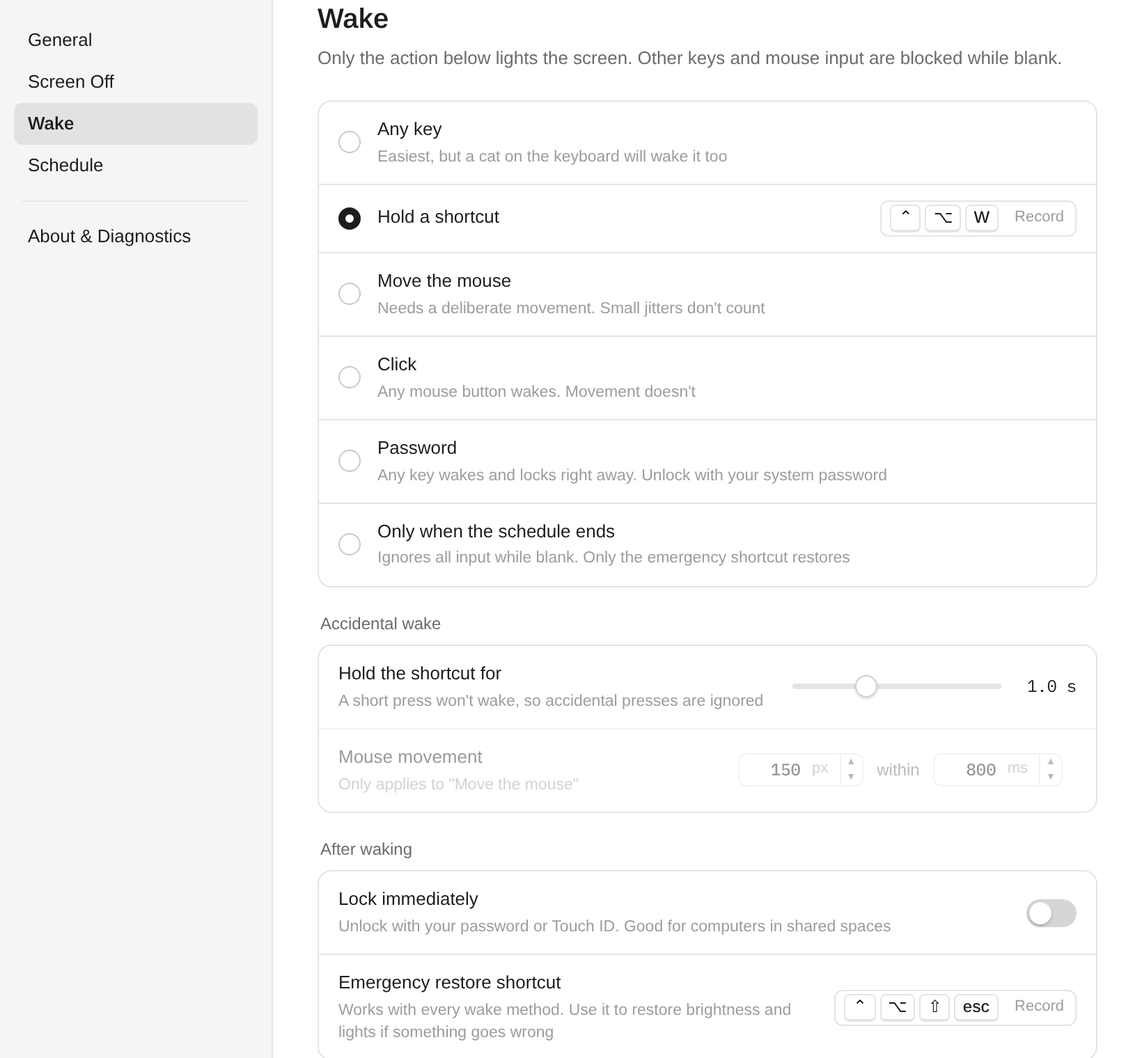
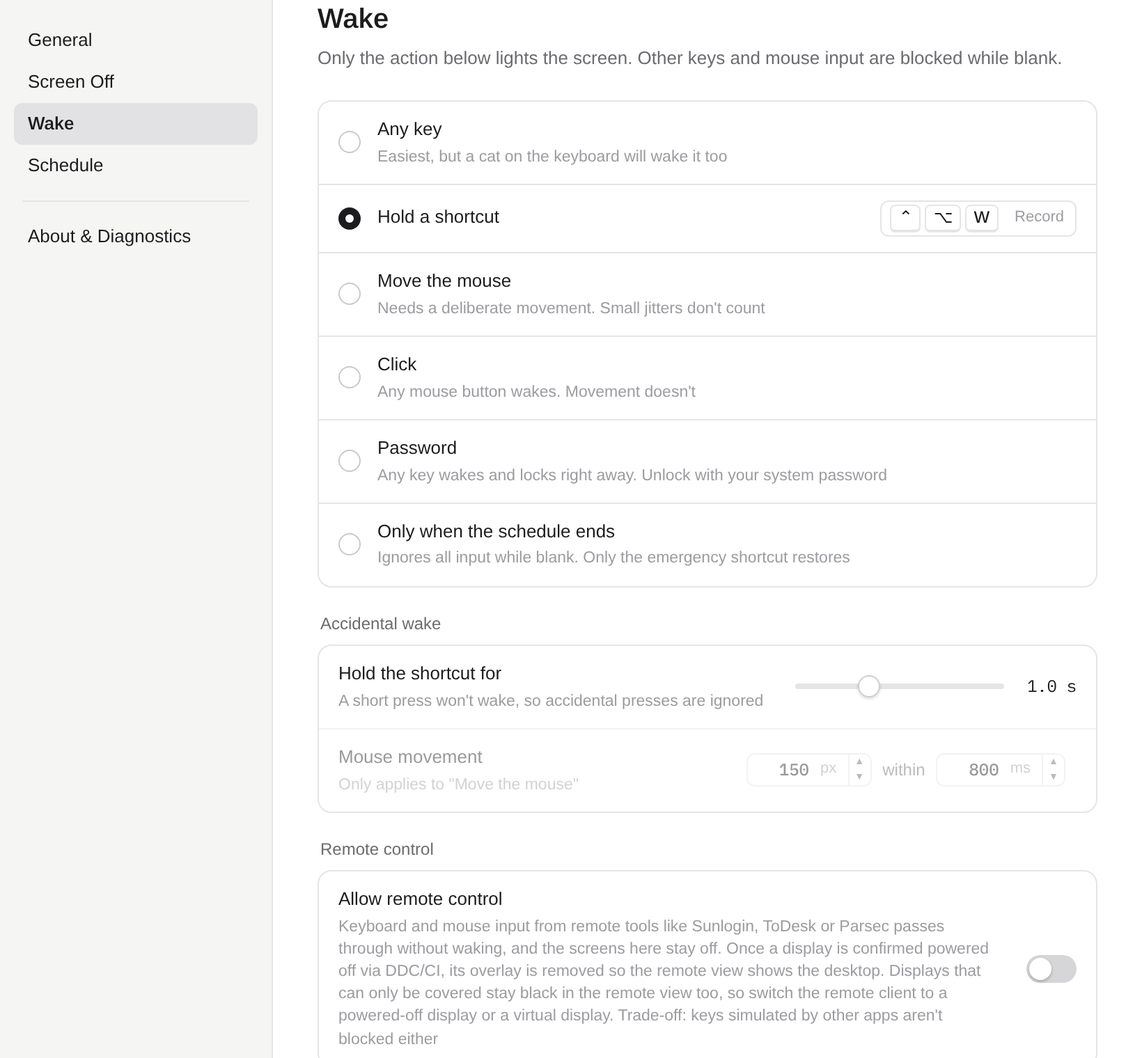
v0.1.5: README (en/zh) and website copy for per-display power-off, remote control, RDP, Mac backlight, wake key drain, updater retry; refreshed screenshots; final release notes

diff --git a/site/index.html b/site/index.html
@@ -25,7 +25,7 @@
 <meta name="twitter:title" content="黑着跑 BlankRun">
 <meta name="twitter:description" content="Turn the screens off at night. Keep your AI agents running. 夜里息屏，AI 接着跑。">
 <meta name="twitter:image" content="https://blankrun.cosfoc.com/og.png">
-<script type="application/ld+json">{"@context":"https://schema.org","@type":"SoftwareApplication","name":"BlankRun","alternateName":"黑着跑","operatingSystem":"macOS 11+, Windows 10+","applicationCategory":"UtilitiesApplication","softwareVersion":"0.1.2","license":"https://opensource.org/licenses/MIT","url":"https://blankrun.cosfoc.com/","downloadUrl":"https://github.com/hongfaqiu/blankrun/releases/latest","offers":{"@type":"Offer","price":"0","priceCurrency":"USD"},"description":"Turn the screens and keyboard backlight off while the computer keeps running. 一键息屏，电脑不睡眠。"}</script>
+<script type="application/ld+json">{"@context":"https://schema.org","@type":"SoftwareApplication","name":"BlankRun","alternateName":"黑着跑","operatingSystem":"macOS 11+, Windows 10+","applicationCategory":"UtilitiesApplication","softwareVersion":"0.1.5","license":"https://opensource.org/licenses/MIT","url":"https://blankrun.cosfoc.com/","downloadUrl":"https://github.com/hongfaqiu/blankrun/releases/latest","offers":{"@type":"Offer","price":"0","priceCurrency":"USD"},"description":"Turn the screens and keyboard backlight off while the computer keeps running. 一键息屏，电脑不睡眠。"}</script>
 <link rel="icon" href="/favicon.svg" type="image/svg+xml">
 <link rel="icon" href="/favicon.png" type="image/png" sizes="32x32">
 <link rel="apple-touch-icon" href="/apple-touch-icon.png">
@@ -53,7 +53,7 @@
     <div class="cta">
       <a class="panel" id="dlMain" href="#download">
         <b><span class="os-mac"><span lang="zh">下载 Mac 版</span><span lang="en">Download for Mac</span></span><span class="os-win"><span lang="zh">下载 Windows 版</span><span lang="en">Download for Windows</span></span><span class="os-any"><span lang="zh">免费下载</span><span lang="en">Download free</span></span></b>
-        <small><span class="os-mac"><span lang="zh">macOS 11+ · Apple 芯片与 Intel · 3.2 MB</span><span lang="en">macOS 11+ · Apple silicon and Intel · 3.2 MB</span></span><span class="os-win"><span lang="zh">Windows 10/11 · 1.2 MB</span><span lang="en">Windows 10/11 · 1.2 MB</span></span><span class="os-any"><span lang="zh">macOS 与 Windows</span><span lang="en">macOS and Windows</span></span></small>
+        <small><span class="os-mac"><span lang="zh">macOS 11+ · Apple 芯片与 Intel · 3.8 MB</span><span lang="en">macOS 11+ · Apple silicon and Intel · 3.8 MB</span></span><span class="os-win"><span lang="zh">Windows 10/11 · 1.4 MB</span><span lang="en">Windows 10/11 · 1.4 MB</span></span><span class="os-any"><span lang="zh">macOS 与 Windows</span><span lang="en">macOS and Windows</span></span></small>
         <i class="led" aria-hidden="true"></i>
       </a>
       <div class="alt">
@@ -68,7 +68,7 @@
   <figure class="hero-shot">
     <picture>
       <source srcset="/img/popover-mac-dark.webp" media="(prefers-color-scheme: dark)">
-      <img src="/img/popover-mac.webp" width="640" height="904" alt="黑着跑菜单栏面板：立即息屏、今晚 23:30 → 07:30 的计划、唤醒方式">
+      <img src="/img/popover-mac.webp" width="640" height="856" alt="黑着跑菜单栏面板：立即息屏、今晚 23:30 → 07:30 的计划、唤醒方式">
     </picture>
   </figure>
 </section>
@@ -78,19 +78,21 @@
   <ol class="timeline">
     <li><span class="t num">23:30</span><div><b><span lang="zh">屏幕和背光熄灭</span><span lang="en">Displays and backlight go dark</span></b><small><span lang="zh">按「立即息屏」，或者交给定时计划。也可以延迟 1、5、15 分钟。</span><span lang="en">Click “Blank now” or let the schedule do it. Delay by 1, 5 or 15 minutes if you like.</span></small></div></li>
     <li class="on"><span class="t num">00:00 – 07:00</span><div><b><span lang="zh">电脑醒着，任务照跑</span><span lang="en">The computer stays awake, jobs keep running</span></b><small><span lang="zh">防睡眠一直生效。屏幕被碰亮了，几秒内会自动再关。</span><span lang="en">Sleep stays blocked the whole time. If something lights the screen, it goes dark again within seconds.</span></small></div></li>
-    <li><span class="t num">07:30</span><div><b><span lang="zh">按你定的方式醒来</span><span lang="en">Wakes the way you chose</span></b><small><span lang="zh">按住 ⌃⌥W 一秒、任意键、移动鼠标，或者等计划结束。醒来后可以锁屏。</span><span lang="en">Hold ⌃⌥W for a second, press any key, move the mouse, or wait for the schedule to end. Optionally lock on wake.</span></small></div></li>
+    <li><span class="t num">07:30</span><div><b><span lang="zh">按你定的方式醒来</span><span lang="en">Wakes the way you chose</span></b><small><span lang="zh">按住 ⌃⌥W 一秒、任意键、移动鼠标，或者等计划结束。醒来后可以锁屏；按住的快捷键不会漏进前台程序。</span><span lang="en">Hold ⌃⌥W for a second, press any key, move the mouse, or wait for the schedule to end. Optionally lock on wake. The held shortcut never leaks into the app in front.</span></small></div></li>
   </ol>
 </section>
 
 <section id="features" class="features">
   <h2><span lang="zh">功能</span><span lang="en">Features</span></h2>
   <dl>
-    <div><dt><span lang="zh">真关屏，不睡眠</span><span lang="en">Real display off, no sleep</span></dt><dd><span lang="zh">macOS 用 IOPMAssertion 阻止睡眠，Windows 用 SetThreadExecutionState；关的是显示器电源，不是盖一层黑图。</span><span lang="en">IOPMAssertion on macOS and SetThreadExecutionState on Windows block sleep. The display is actually powered down, not covered with a black image.</span></dd></div>
+    <div><dt><span lang="zh">真关屏，不睡眠</span><span lang="en">Real display off, no sleep</span></dt><dd><span lang="zh">macOS 用 IOPMAssertion 阻止睡眠，Windows 用 SetThreadExecutionState；关的是显示器电源，不是盖一层黑图。Mac 内建屏的背光会调到 0，唤醒后恢复。</span><span lang="en">IOPMAssertion on macOS and SetThreadExecutionState on Windows block sleep. The display is actually powered down, not covered with a black image. On a Mac, the built-in display's backlight goes to 0 and comes back on wake.</span></dd></div>
+    <div><dt><span lang="zh">逐台断电</span><span lang="en">Per-display power-off</span></dt><dd><span lang="zh">Windows 上支持 DDC/CI 的显示器可以单独断电，其余盖黑色遮罩；每台可选「自动 / 仅遮罩 / 断电」。不响应断电指令的显示器会被自动识别，改用遮罩。远程软件的虚拟显示器不遮、不断电。</span><span lang="en">On Windows, displays with DDC/CI can be powered off one by one; the rest get a black overlay. Each display can be set to Automatic, Overlay only or Power off. Displays that ignore power-off commands are detected and switched to the overlay. Virtual displays from remote tools are left alone.</span></dd></div>
+    <div><dt><span lang="zh">放行远程控制</span><span lang="en">Allow remote control</span></dt><dd><span lang="zh">开启后，向日葵、ToDesk、Parsec 等远程软件的键鼠操作直接放行，不会唤醒本机屏幕；已断电的显示器撤下遮罩，远程画面照常可见。远程桌面（RDP）会话中不息屏。</span><span lang="en">When on, input from Sunlogin, ToDesk, Parsec and similar tools passes through without waking the local screens. Displays that are powered off drop their overlay so the remote view still shows the desktop. BlankRun doesn't blank inside a Remote Desktop (RDP) session.</span></dd></div>
     <div><dt><span lang="zh">防误触唤醒</span><span lang="en">No accidental wake</span></dt><dd><span lang="zh">息屏期间拦截键鼠输入。唤醒方式可选：任意键、按住快捷键、移动鼠标、点击、输入密码、只在定时结束时。另有一个随时可用的紧急恢复键。</span><span lang="en">Input is swallowed while blank. Wake by any key, holding a hotkey, mouse move, click, password, or only when the schedule ends. An emergency restore hotkey always works.</span></dd></div>
     <div><dt><span lang="zh">定时计划</span><span lang="en">Schedule</span></dt><dd><span lang="zh">比如每天 23:30 → 07:30，支持跨午夜，可以只跳过今晚。</span><span lang="en">For example 23:30 → 07:30 daily. Works across midnight, and you can skip just tonight.</span></dd></div>
     <div><dt><span lang="zh">键盘背光</span><span lang="en">Keyboard backlight</span></dt><dd><span lang="zh">macOS 上和屏幕一起关掉。用的是系统私有接口，启动时先探测，不可用就跳过，不影响其他功能。</span><span lang="en">Turned off together with the screen on macOS. It uses a private API that is probed at runtime and skipped when unavailable.</span></dd></div>
     <div><dt><span lang="zh">Windows 待机兜底</span><span lang="en">Modern Standby fallback</span></dt><dd><span lang="zh">有些新款 Windows 笔记本一关屏就进低功耗待机，后台任务会被挂起。检测到这类机器时，改用全黑遮罩。</span><span lang="en">Some Windows laptops drop into Modern Standby when the display turns off, which suspends background jobs. BlankRun detects this and uses a black overlay instead.</span></dd></div>
-    <div><dt><span lang="zh">小，而且只在本地</span><span lang="en">Small and local</span></dt><dd><span lang="zh">基于 Tauri 2，用系统自带 WebView，前端零依赖。安装包只有几 MB。除了每天一次检查更新（可关），不联网、不上传，开源（MIT）。</span><span lang="en">Built on Tauri 2 with the system WebView and a zero-dependency UI. Installers are a few MB. No telemetry; the only network use is a daily update check you can turn off. MIT licensed.</span></dd></div>
+    <div><dt><span lang="zh">小，而且只在本地</span><span lang="en">Small and local</span></dt><dd><span lang="zh">基于 Tauri 2，用系统自带 WebView，前端零依赖。安装包只有几 MB。除了每天一次检查更新（可关），不联网、不上传；更新包有签名校验，下载失败会自动重试。开源（MIT）。</span><span lang="en">Built on Tauri 2 with the system WebView and a zero-dependency UI. Installers are a few MB. No telemetry; the only network use is a daily update check you can turn off. Updates are signed and downloads retry on failure. MIT licensed.</span></dd></div>
   </dl>
 </section>
 
@@ -106,18 +108,18 @@
       <figcaption><span lang="zh">设置 · 唤醒</span><span lang="en">Settings · Wake</span></figcaption>
     </figure>
     <figure>
-      <img src="/img/settings-win-schedule.webp" width="1600" height="1483" loading="lazy" alt="Windows 设置 · 定时">
-      <figcaption><span lang="zh">Windows · 定时</span><span lang="en">Windows · Schedule</span></figcaption>
+      <picture><source srcset="/img/settings-win-displays-dark.webp" media="(prefers-color-scheme: dark)"><img src="/img/settings-win-displays.webp" width="1120" height="1050" loading="lazy" alt="Windows 设置 · 显示器：逐台选择自动、仅遮罩或断电"></picture>
+      <figcaption><span lang="zh">Windows · 逐台显示器</span><span lang="en">Windows · Per-display settings</span></figcaption>
     </figure>
   </div>
 </section>
 
 <section class="download" id="download">
   <h2><span lang="zh">下载</span><span lang="en">Download</span></h2>
-  <p class="sub"><span lang="zh">v0.1.2 · 免费开源（MIT）· <a href="https://github.com/hongfaqiu/blankrun/releases/latest">更新说明</a></span><span lang="en">v0.1.2 · Free and open source (MIT) · <a href="https://github.com/hongfaqiu/blankrun/releases/latest">Release notes</a></span></p>
+  <p class="sub"><span lang="zh">v0.1.5 · 免费开源（MIT）· <a href="https://github.com/hongfaqiu/blankrun/releases/latest">更新说明</a></span><span lang="en">v0.1.5 · Free and open source (MIT) · <a href="https://github.com/hongfaqiu/blankrun/releases/latest">Release notes</a></span></p>
   <ul class="files">
-    <li><a href="https://github.com/hongfaqiu/blankrun/releases/latest/download/BlankRun_universal.dmg"><span lang="zh">macOS 版</span><span lang="en">macOS</span></a><span class="num muted">3.2 MB</span><span class="muted"><span lang="zh">macOS 11+ · Apple 芯片与 Intel</span><span lang="en">macOS 11+ · Apple silicon and Intel</span></span></li>
-    <li><a href="https://github.com/hongfaqiu/blankrun/releases/latest/download/BlankRun_x64-setup.exe"><span lang="zh">Windows 版</span><span lang="en">Windows</span></a><span class="num muted">1.2 MB</span><span class="muted">Windows 10/11 x64</span></li>
+    <li><a href="https://github.com/hongfaqiu/blankrun/releases/latest/download/BlankRun_universal.dmg"><span lang="zh">macOS 版</span><span lang="en">macOS</span></a><span class="num muted">3.8 MB</span><span class="muted"><span lang="zh">macOS 11+ · Apple 芯片与 Intel</span><span lang="en">macOS 11+ · Apple silicon and Intel</span></span></li>
+    <li><a href="https://github.com/hongfaqiu/blankrun/releases/latest/download/BlankRun_x64-setup.exe"><span lang="zh">Windows 版</span><span lang="en">Windows</span></a><span class="num muted">1.4 MB</span><span class="muted">Windows 10/11 x64</span></li>
   </ul>
   <h3><span lang="zh">首次打开</span><span lang="en">First launch</span></h3>
   <dl class="steps">

diff --git a/README.md b/README.md
@@ -1,6 +1,6 @@
 <p align="center"><img src="src-tauri/icons/128x128.png" width="72" alt="BlankRun icon"></p>
 
-<h1 align="center">BlankRun</h1>
+<h1 align="center">BlankRun · 黑着跑</h1>
 
 <p align="center">Turn the screens off at night. Keep your AI agents running.</p>
 
@@ -8,7 +8,7 @@
 
 <p align="center"><a href="https://blankrun.cosfoc.com">Website</a> · <a href="https://github.com/hongfaqiu/blankrun/releases">Download</a> · macOS + Windows · MIT</p>
 
-> **Status: v0.1.2. Blanking, keep-awake, wake and restore have been checked on a MacBook Air M4 (macOS 26.5) and a dual-monitor Windows 11 desktop. The installers are unsigned.** [Download the latest version](https://github.com/hongfaqiu/blankrun/releases/latest)
+> **Latest version: v0.1.5** · macOS 11+ (Apple silicon and Intel) · Windows 10/11 x64 · [Download](https://github.com/hongfaqiu/blankrun/releases/latest). The installers are not code-signed; see the [website](https://blankrun.cosfoc.com/#download) for first-launch steps.
 
 <p align="center"><img src="docs/screenshots/popover-mac-en.png" width="380" alt="Menu bar panel"> <img src="docs/screenshots/popover-mac-en-dark.png" width="380" alt="Menu bar panel (dark)"></p>
 
@@ -23,18 +23,20 @@ Features:
 - **Blank now or after a delay**: right away, or after 1, 5 or 15 minutes.
 - **No sleep while blank** (on by default, can be turned off): IOPMAssertion on macOS, SetThreadExecutionState on Windows.
 - **Schedule**: for example 23:30 to 07:30 every day. Works across midnight, and you can skip just tonight.
-- **Configurable wake**: any key, holding a shortcut (⌃⌥W for 1 second by default), moving the mouse, clicking, locking on wake so you enter your password, or only when the schedule ends. A separate emergency shortcut always restores everything.
+- **Configurable wake**: any key, holding a shortcut (⌃⌥W for 1 second by default), moving the mouse, clicking, locking on wake so you enter your password, or only when the schedule ends. A separate emergency shortcut always restores everything. After a shortcut wake, the keyboard stays blocked until the keys are released (at most 2 seconds), so key repeats never reach the app in front; the mouse works right away.
 - **No accidental wake**: keyboard and mouse input is blocked while blank. If the screen lights up anyway, it goes dark again within seconds. On macOS without Accessibility permission, the wake shortcut still works and stray touches are re-blanked.
 - **Launch at login, blank-now shortcut** (⌃⌥B by default), **a reminder before the schedule starts** (skip tonight or postpone 30 min), and **waiting while a video plays full screen**.
+- **Per-display power-off**: on Windows, displays with DDC/CI are powered off one by one and the rest get a black overlay. Each display can be set to Automatic, Overlay only or Power off, and displays that ignore power-off commands are detected automatically. On a Mac, the built-in display's backlight goes to 0. Virtual displays from remote tools are left alone. See below.
+- **Allow remote control**: input from remote tools passes through without waking the local screens, and the remote view keeps a live picture. BlankRun doesn't blank inside a Remote Desktop (RDP) session.
 - **Keyboard backlight**: turned off together with the screen on macOS. It uses a private API that is probed at runtime and skipped when unavailable.
 - **Windows Modern Standby**: on PCs that drop into low-power standby when the display turns off, BlankRun uses a black overlay instead so jobs aren't suspended.
 - **English and Chinese UI**: follows the system language by default. Switch in Settings › General › Language and the tray menu, wake hints and onboarding update immediately, with no restart.
-- **Small**: built on Tauri 2 with a zero-dependency UI. Measured for v0.1.0: 1.2 MB Windows installer, 3.2 MB universal macOS DMG.
-- **Auto-update**: checks once a day (can be turned off). Updates are signed and install only when you click "Update and restart", never while the screen is blank. From v0.1.1 on; v0.1.0 needs one manual install.
+- **Small**: built on Tauri 2 with a zero-dependency UI. v0.1.5: 1.4 MB Windows installer, 3.8 MB universal macOS DMG.
+- **Auto-update**: checks once a day (can be turned off). Updates are signed, downloads retry on network errors, and an update installs only when you click "Update and restart", never while the screen is blank. From v0.1.1 on; v0.1.0 needs one manual install.
 - **Blank history**: the last 30 sessions with time, trigger, how they ended and how many accidental touches were blocked. Stored locally and can be cleared.
 - **Local only**: apart from the daily update check, nothing goes over the network and nothing is uploaded.
 
-Later versions: external monitor power via DDC/CI, RGB lighting.
+Later versions: RGB lighting, external display power-off on macOS.
 
 ## Per-display power-off and remote control
 
@@ -51,11 +53,11 @@ Later versions: external monitor power via DDC/CI, RGB lighting.
 |---|---|---|
 | <img src="docs/screenshots/settings-mac-wake-en.png" width="300"> | <img src="docs/screenshots/overlay-mac-hint-en.png" width="300"> | <img src="docs/screenshots/onboarding-mac-en.png" width="300"> |
 
-| Windows tray panel | Settings · Schedule (Windows) |
-|---|---|
-| <img src="docs/screenshots/popover-win-en.png" width="260"> | <img src="docs/screenshots/settings-win-schedule-en.png" width="360"> |
+| Windows tray panel | Settings · Displays (Windows) | Settings · Schedule (Windows) |
+|---|---|---|
+| <img src="docs/screenshots/popover-win-en.png" width="260"> | <img src="docs/screenshots/settings-win-displays-en.png" width="320"> | <img src="docs/screenshots/settings-win-schedule-en.png" width="320"> |
 
-Screenshots show the v0.1.0 interface. On your machine, fonts follow the system.
+Screenshots are rendered from the app's UI. On your machine, fonts follow the system.
 
 ## Docs
 
@@ -74,19 +76,22 @@ crates/core/            platform-independent core (cargo test on any host)
   src/wake.rs           wake policy and accidental-wake guard (hold shortcut, mouse distance, emergency key)
   src/hotkey.rs         "Ctrl+Alt+W" parsing and matching
   src/locale.rs         UI language choice (match system or explicit; same rules as ui/common.js)
+  src/monitors.rs       per-display plan: power off, overlay or skip (virtual displays, overrides, remote mode)
+  src/drain.rs          keyboard drain after a shortcut wake (held keys, 300 ms grace, 2 s cap)
 src-tauri/              Tauri 2 tray / menu bar app
   src/main.rs           tray and panel, windows, Tauri commands (config, blank, diagnostics, permissions, locale)
   src/engine.rs         engine thread: state machine, countdown, schedule, wake policy, overlays, re-blank
   src/platform/mod.rs   Platform trait, input event channel
-  src/platform/macos.rs   IOPMAssertion, IORequestIdle/pmset, CoreBrightness backlight (probed), CGEventTap (untested on hardware)
+  src/platform/macos.rs   IOPMAssertion, IORequestIdle/pmset, CoreBrightness keyboard backlight (probed), DisplayServices brightness, CGEventTap
   src/platform/windows.rs SetThreadExecutionState, SC_MONITORPOWER, Modern Standby detection, display-state callback, LL hooks
+  src/platform/win_monitors.rs display enumeration, DDC/CI (VCP 0xD6) power
   src/platform/stub.rs  no-op for other platforms, compile checks only
 ui/                     the real UI: plain HTML/JS/CSS, no framework, no bundler, no inline styles (CSP)
   popover / settings / overlay / onboarding .html + their .js/.css, shared nb.css and common.js
   i18n/<code>.js        UI strings (en, zh-CN), one file per language
 site/                   website (static HTML/CSS); pushes to main auto-deploy via Cloudflare Pages (project blankrun-site) to blankrun.cosfoc.com
 design/                 mockups; design/preview/ renders ui/ in Chrome with a fake __TAURI__ to check layouts
-docs/screenshots/       English screenshots used in this README
+docs/screenshots/       screenshots used in the READMEs
 ```
 Config file: `com.cosfoc.blankrun/config.toml` in the system app-config directory.
 

diff --git a/README.zh-CN.md b/README.zh-CN.md
@@ -1,6 +1,6 @@
 <p align="center"><img src="src-tauri/icons/128x128.png" width="72" alt="BlankRun 图标"></p>
 
-<h1 align="center">黑着跑 BlankRun</h1>
+<h1 align="center">BlankRun · 黑着跑</h1>
 
 <p align="center">夜里关掉屏幕和灯，让 AI 接着跑。</p>
 
@@ -8,9 +8,9 @@
 
 <p align="center"><a href="https://blankrun.cosfoc.com">官网</a> · <a href="https://github.com/hongfaqiu/blankrun/releases">下载</a> · macOS + Windows · MIT</p>
 
-> **状态：v0.1.2。息屏、防睡眠、唤醒和恢复已在 MacBook Air M4（macOS 26.5）和一台双屏 Windows 11 台式机上验证过。安装包未签名。** [下载最新版](https://github.com/hongfaqiu/blankrun/releases/latest)
+> **最新版本：v0.1.5** · macOS 11+（Apple 芯片与 Intel）· Windows 10/11 x64 · [下载](https://github.com/hongfaqiu/blankrun/releases/latest)。安装包未做代码签名，首次打开的步骤见[官网](https://blankrun.cosfoc.com/#download)。
 
-<p align="center"><img src="design/png/popover-mac.png" width="380" alt="菜单栏面板"> <img src="design/png/popover-mac-dark.png" width="380" alt="菜单栏面板（深色）"></p>
+<p align="center"><img src="docs/screenshots/popover-mac.png" width="380" alt="菜单栏面板"> <img src="docs/screenshots/popover-mac-dark.png" width="380" alt="菜单栏面板（深色）"></p>
 
 ## 这是什么
 
@@ -23,18 +23,20 @@
 - **立即息屏 / 倒计时息屏**：可以立即息屏，也可以延迟 1、5、15 分钟。
 - **息屏时防睡眠**（默认开，可关）：macOS 用 IOPMAssertion，Windows 用 SetThreadExecutionState。
 - **定时计划**：例如每天 23:30 到 07:30，支持跨午夜，也可以跳过今晚。
-- **可配置唤醒**：任意键、按住快捷键（默认 ⌃⌥W 按住 1 秒）、移动鼠标、点击、唤醒后锁屏输密码，或者只在定时结束时唤醒；另有一个紧急恢复快捷键。
+- **可配置唤醒**：任意键、按住快捷键（默认 ⌃⌥W 按住 1 秒）、移动鼠标、点击、唤醒后锁屏输密码，或者只在定时结束时唤醒；另有一个紧急恢复快捷键。按住快捷键唤醒后，键盘会继续拦截到按键全部松开（最多 2 秒），自动重复不会漏进前台程序；鼠标立即可用。
 - **防误触**：息屏期间拦截键鼠输入；屏幕被意外点亮时，几秒内自动再关。macOS 没给辅助功能权限时，唤醒快捷键照样能用，误触点亮后也会自动再熄灭。
 - **开机启动、立即息屏快捷键**（默认 ⌃⌥B）、**定时开始前提醒**（可跳过今晚或推迟 30 分钟）、**全屏看视频时先等着**。
+- **逐台断电**：Windows 上支持 DDC/CI 的显示器单独断电，其余盖黑色遮罩；每台可选「自动 / 仅遮罩 / 断电」，不响应断电指令的显示器会被自动识别。Mac 内建屏背光调到 0。远程软件的虚拟显示器不遮、不断电。详见下文。
+- **放行远程控制**：远程软件的键鼠操作直接放行，不会唤醒本机屏幕，远程画面照常可见。远程桌面（RDP）会话中不息屏。
 - **键盘背光**：macOS 上一起关掉。用的是私有接口，运行时先探测，不可用时自动跳过。
 - **Windows Modern Standby**：检测到关屏会让机器进入低功耗待机的机型时，改用全黑遮罩，避免任务被挂起。
 - **中英双语界面**：默认跟随系统语言，也可以在「设置 › 通用 › 语言」里切换，托盘菜单、息屏提示和首次引导都会立即换过来，不用重启。
-- **体积小**：基于 Tauri 2，前端零依赖。v0.1.0 实测：Windows 安装包 1.2 MB，macOS 通用版 DMG 3.2 MB。
-- **自动更新**：每天检查一次（可关）。更新包有签名校验，只在你点「更新并重启」时安装，息屏中不会更新。从 v0.1.1 开始支持，v0.1.0 需要手动装一次。
+- **体积小**：基于 Tauri 2，前端零依赖。v0.1.5：Windows 安装包 1.4 MB，macOS 通用版 DMG 3.8 MB。
+- **自动更新**：每天检查一次（可关）。更新包有签名校验，下载失败会自动重试，只在你点「更新并重启」时安装，息屏中不会更新。从 v0.1.1 开始支持，v0.1.0 需要手动装一次。
 - **息屏记录**：保留最近 30 次的时间、触发方式、结束方式和拦下的误触次数，只存在本机，可一键清空。
 - **本地运行**：除了每天一次检查更新，不联网，不上传任何数据。
 
-后续版本：外接显示器断电（DDC/CI）、RGB 灯控制。
+后续版本：RGB 灯控制、macOS 外接显示器断电。
 
 ## 逐台断电与远程控制
 
@@ -49,13 +51,13 @@
 
 | 设置 · 唤醒 | 息屏中 | 首次引导 |
 |---|---|---|
-| <img src="design/png/settings-mac-wake.png" width="300"> | <img src="design/png/blank-mac-hint.png" width="300"> | <img src="design/png/onboarding-mac.png" width="300"> |
+| <img src="docs/screenshots/settings-mac-wake.png" width="300"> | <img src="docs/screenshots/overlay-mac-hint.png" width="300"> | <img src="docs/screenshots/onboarding-mac.png" width="300"> |
 
-| Windows 托盘面板 | 设置 · 定时（Windows） |
+| Windows 托盘面板 | 设置 · 显示器（Windows） |
 |---|---|
-| <img src="design/png/popover-win.png" width="260"> | <img src="design/png/settings-win-schedule.png" width="360"> |
+| <img src="docs/screenshots/popover-win.png" width="260"> | <img src="docs/screenshots/settings-win-displays.png" width="340"> |
 
-截图来自 v0.1.0 的实际界面；在真机上，字体会跟随系统。
+截图由应用界面渲染；在你的电脑上，字体会跟随系统。
 
 ## 文档
 
@@ -74,18 +76,22 @@ crates/core/            平台无关核心（可在任何主机 cargo test）
   src/wake.rs           唤醒策略 / 防误触（按住快捷键、鼠标累计位移、紧急键）
   src/hotkey.rs         "Ctrl+Alt+W" 解析与匹配
   src/locale.rs         界面语言选择（跟随系统 / 手动指定，与 ui/common.js 规则一致）
+  src/monitors.rs       逐台显示器方案：断电、遮罩或跳过（虚拟显示器、逐台指定、远程模式）
+  src/drain.rs          快捷键唤醒后的键盘排空（按住的键、300 ms 余量、最长 2 秒）
 src-tauri/              Tauri 2 托盘/菜单栏应用
   src/main.rs           托盘与弹出面板、窗口、Tauri 命令（配置、息屏、诊断、权限）
   src/engine.rs         引擎线程：状态机 + 倒计时 + 定时 + 唤醒策略 + 遮罩窗口 + 意外点亮后重新息屏
   src/platform/mod.rs   Platform trait、输入事件通道
-  src/platform/macos.rs   IOPMAssertion、IORequestIdle/pmset、CoreBrightness 背光（运行时探测）、CGEventTap（未在真机测试）
+  src/platform/macos.rs   IOPMAssertion、IORequestIdle/pmset、CoreBrightness 键盘背光（运行时探测）、DisplayServices 亮度、CGEventTap
   src/platform/windows.rs SetThreadExecutionState、SC_MONITORPOWER、Modern Standby 检测、显示器状态回调、LL 键鼠钩子
+  src/platform/win_monitors.rs 显示器枚举、DDC/CI（VCP 0xD6）电源
   src/platform/stub.rs  其他平台 no-op，仅供编译检查
 ui/                     正式界面：原生 HTML/JS/CSS，无框架、无打包器、无内联样式（CSP）
   popover / settings / overlay / onboarding .html + 各自的 .js/.css，共享 nb.css、common.js
   i18n/<语言代码>.js      界面文案（en、zh-CN），一个语言一个文件
 site/                   官网（静态 HTML/CSS）；push 到 main 后由 Cloudflare Pages（项目 blankrun-site）自动部署到 blankrun.cosfoc.com
 design/                 设计稿；design/preview/ 用假的 __TAURI__ 在 Chrome 里渲染 ui/ 检查布局
+docs/screenshots/       README 用的截图
 ```
 配置文件位置：系统应用配置目录下的 `com.cosfoc.blankrun/config.toml`。
 

diff --git a/.github/release-notes/0.1.5.md b/.github/release-notes/0.1.5.md
@@ -1,21 +1,39 @@
-## 黑着跑 0.1.5
+## BlankRun · 黑着跑 0.1.5
 
-- 逐台显示器断电：支持 DDC/CI 的显示器在「只关所选」和远程控制模式下也能单独断电，其余盖黑色遮罩；每台可设「自动 / 仅遮罩 / 断电」。不响应断电指令的显示器会被自动识别，之后只用遮罩。
-- 选「全部显示器」且未开远程控制时，仍用系统关屏让所有显示器真正断电。
-- 新增「放行远程控制」（默认关）：向日葵、ToDesk、Parsec 等远程软件的键鼠操作不再唤醒，本机屏幕保持关闭；远程软件的虚拟显示器不会被遮挡或断电。
-- 远程桌面（RDP）会话中不息屏，息屏时有 RDP 连入会自动唤醒。
-- Mac：内建屏息屏时背光调到 0，唤醒后恢复。
-- 按住快捷键唤醒后，组合键的自动重复和抬起不再漏给前台程序（键盘最多再拦 2 秒，鼠标立即可用）。
-- 远程控制模式下，确认已断电的显示器会撤下遮罩，远程能看到画面。
-- 自动更新下载失败时自动重试两次。
+### 新功能
 
-## BlankRun 0.1.5
+- **逐台断电**：Windows 上支持 DDC/CI 的显示器可以单独断电，「只关所选」时也能真正关掉背光，其余显示器盖黑色遮罩。
+- **逐台指定**：每台显示器可选「自动 / 仅遮罩 / 断电」。接受断电指令却仍亮着的显示器会被自动识别，之后只用遮罩，不再闪烁。选「全部显示器」且未开「放行远程控制」时，仍用系统关屏让所有显示器断电。
+- **虚拟显示器**：向日葵、Parsec、ToDesk、RustDesk 等远程软件的虚拟显示器会被识别，不遮挡、不断电。
+- **放行远程控制**（默认关）：远程软件的键鼠操作直接放行，不会唤醒本机屏幕。已确认断电的显示器会撤下遮罩，远程端可以正常看到画面；显示器被重新点亮时遮罩会盖回去。
+- **远程桌面（RDP）**：RDP 会话中不息屏；息屏期间有 RDP 连入时自动唤醒。
+- **Mac 内建屏**：息屏时背光调到 0，唤醒后恢复到原来的亮度。
 
-- Per-display power-off: displays with DDC/CI can be powered off one by one, including in "Selected only" and remote-control mode; the rest get a black overlay. Each display can be set to Automatic, Overlay only or Power off. Displays that ignore power-off commands are detected and use the overlay from then on.
-- "All displays" without remote control still uses the system display-off, so every display really powers off.
-- New "Allow remote control" (off by default): input from Sunlogin, ToDesk, Parsec and similar tools no longer wakes, and local screens stay off. Virtual displays from remote tools are never covered or powered off.
-- No blanking inside a Remote Desktop (RDP) session, and an RDP connection while blanked wakes the screens.
-- Mac: the built-in display's backlight goes to 0 while blanked and is restored on wake.
-- After waking with a held shortcut, key repeats and key-ups of the combo no longer leak into the focused app (the keyboard is held for at most 2 s more; the mouse works immediately).
-- In remote-control mode, displays confirmed powered off drop their overlay so the remote view shows the desktop.
+### 改进
+
+- 按住快捷键唤醒后，键盘会继续拦截到按键全部松开（最多 2 秒），组合键的自动重复和抬起不会漏进前台程序；鼠标立即可用。
+- 自动更新下载遇到网络错误时自动重试两次。
+- 配置文件无法解析时保留一份 `config.toml.broken`，便于找回设置。
+
+更新方式：已安装 0.1.1 及以上版本时，在「设置 › 关于与诊断」里点「更新并重启」，或等每日检查自动提示。
+
+---
+
+## BlankRun · 黑着跑 0.1.5
+
+### New
+
+- **Per-display power-off**: on Windows, displays with DDC/CI can be powered off one by one, so "Selected only" really turns their backlight off. Other displays get a black overlay.
+- **Per-display override**: each display can be set to Automatic, Overlay only or Power off. A display that accepts the power-off command but stays lit is detected and uses the overlay from then on, without flicker. With "All displays" and "Allow remote control" off, the system display-off still powers every display off.
+- **Virtual displays** from Sunlogin, Parsec, ToDesk, RustDesk and similar tools are recognized and never covered or powered off.
+- **Allow remote control** (off by default): input from remote tools passes through without waking the local screens. Displays confirmed powered off drop their overlay so the remote view shows the desktop; the overlay returns if a display lights up again.
+- **Remote Desktop (RDP)**: no blanking inside an RDP session, and an RDP connection while blanked wakes the screens.
+- **Mac built-in display**: the backlight goes to 0 while blanked and is restored on wake.
+
+### Improvements
+
+- After waking with a held shortcut, the keyboard stays blocked until the keys are released (at most 2 seconds), so key repeats and key-ups of the combo never reach the app in front. The mouse works right away.
 - Update downloads retry twice on network errors.
+- If the config file can't be parsed, a copy is kept as `config.toml.broken` so settings can be recovered.
+
+To update from 0.1.1 or later, click "Update and restart" in Settings › About & Diagnostics, or wait for the daily check.
